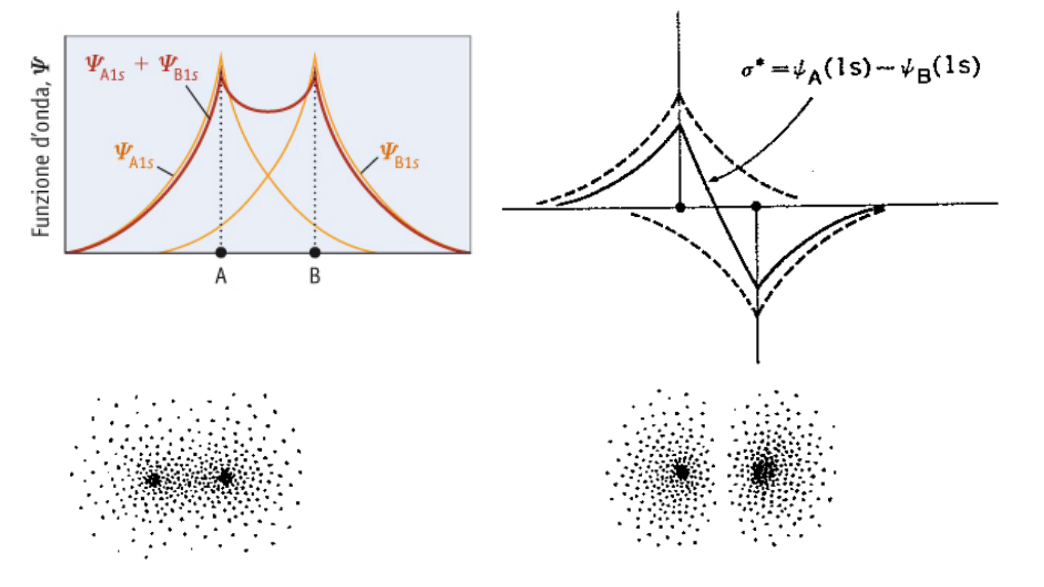
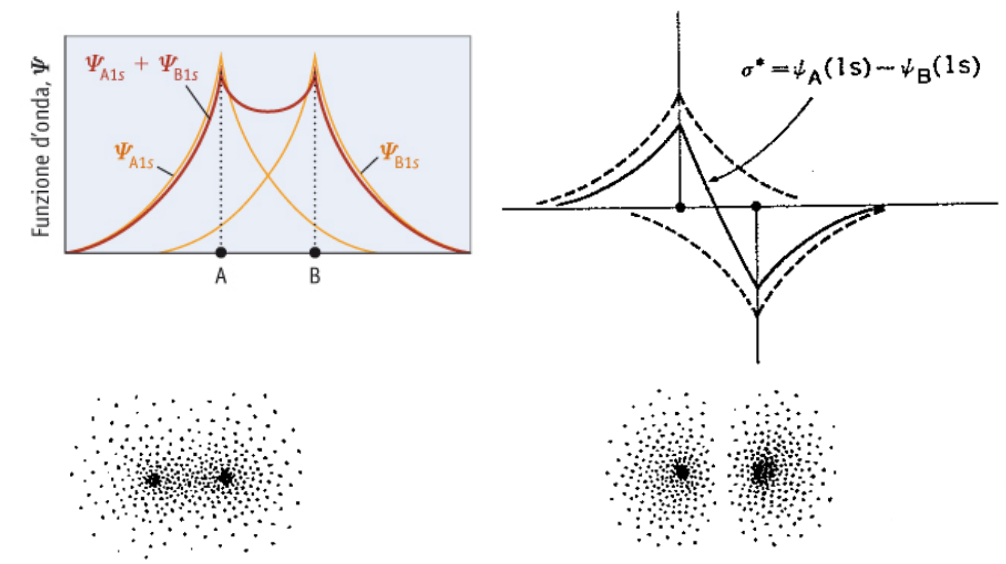
robe sulle immagini

diff --git a/Chapter/3-Sections/6-sesto.tex b/Chapter/3-Sections/6-sesto.tex
@@ -31,7 +31,7 @@ Nel punto di minimo in energia per due atomi di idrogeno si trova un valore di -
 
 \vspace{-0.4cm}\begin{figure}[H]
     \centering
-    \includegraphics[width=12cm]{immagini/legame_H-F.png}
+    \includegraphics[width=11cm]{immagini/legame_H-F.png}
 \end{figure}
 
 \vspace{-0.5cm}Va da notare che i due lobi dell'orbitale p hanno colori diversi, e ad interagire con l'orbitale s dell'idrogeno è quello che ha lo stesso colore di ques'ultimo. Il motivo è che i lobi degli orbitali p hanno segno opposto, pertanto affinché i due orbitali interagiscano si deve scegliere il lobo avente lo stesso segno dell's.
